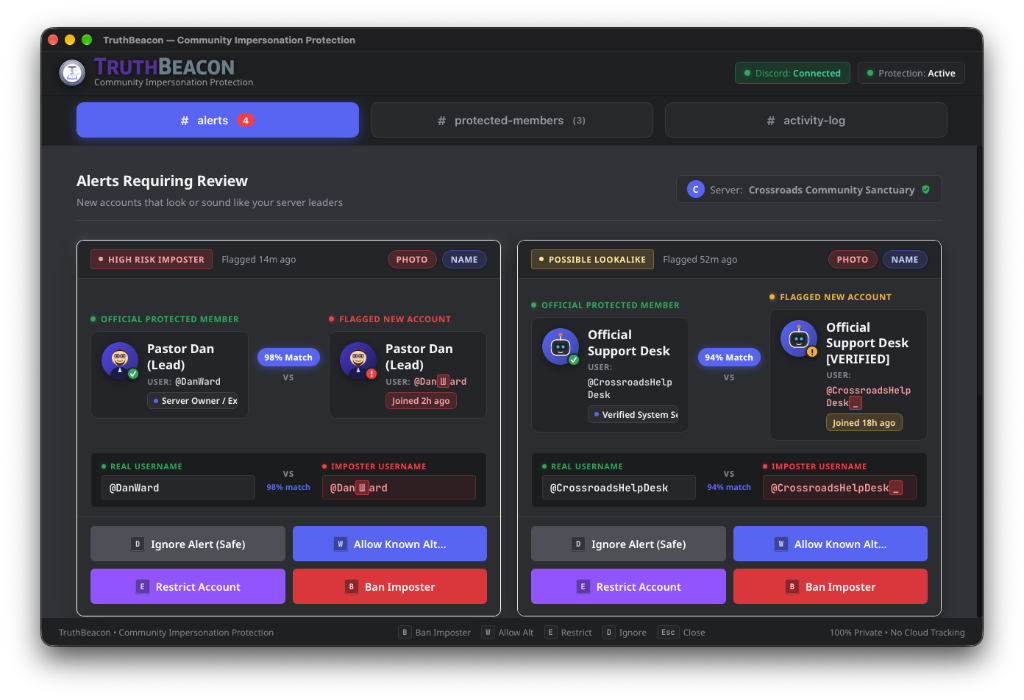
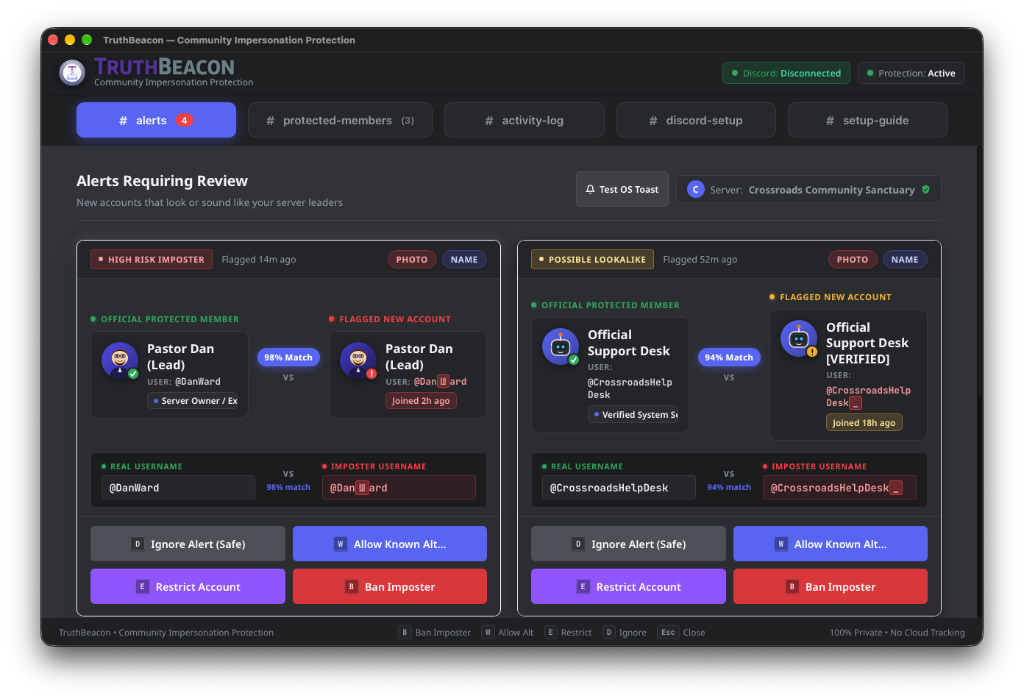
docs: update application screenshots and add discord setup image in README assets

diff --git a/README.md b/README.md
@@ -4,9 +4,9 @@
 **Built with Tauri v2 &bull; Powered by Rust &bull; 100% Local &bull; Zero Cloud Telemetry**
 
 <p align="center">
-  <img src="ui/assets/app_carousel.webp" alt="TruthBeacon Desktop Application: Alerts Triage, Protected Community Leaders, and Activity Log" width="100%" style="border-radius: 8px; box-shadow: 0 12px 32px rgba(0,0,0,0.35);">
+  <img src="ui/assets/app_carousel.webp" alt="TruthBeacon Desktop Application: Alerts Triage, Protected Community Leaders, Activity Log, and Discord Connection Setup" width="100%" style="border-radius: 8px; box-shadow: 0 12px 32px rgba(0,0,0,0.35);">
   <br>
-  <em>TruthBeacon Console: Real-time imposter alerts, side-by-side profile comparisons, and instant one-key resolution.</em>
+  <em>TruthBeacon Console: Real-time imposter alerts triage, canonical benchmark vault, local activity log, and Discord connection setup.</em>
 </p>
 
 <p align="center">
@@ -120,6 +120,7 @@ TruthBeacon makes protecting your server straightforward:
 | **Monospace Comparison Bar** | Uncut, full-length display of canonical and suspect usernames so zero subtle character swaps go unnoticed. |
 | **Direct Trigger Pills** | Instant visual tags on each alert card (`Photo`, `Name`) explaining exactly why the account was flagged. |
 | **Protected VIP Vault** | Easily save team members, pastors, founders, and moderators with one-click role imports from Discord. |
+| **Discord Connection & Setup** | Seamless bot token authentication, guild pairing, and interactive detection sensitivity controls. |
 | **Discord Gateway Daemon** | Background event listener that instantly catches incoming joins and profile edits without polling. |
 | **Persistent System Tray** | Sits quietly in your menu bar or taskbar with multi-resolution assets (16x16 to 256x256), health controls, and background residency. |
 | **Native Action Toasts** | Interactive desktop notifications for `Elevated` and `Critical` threats with instant action buttons: `Inspect`, `Dismiss`, and `Ban & Purge`. |
